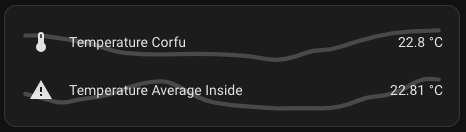
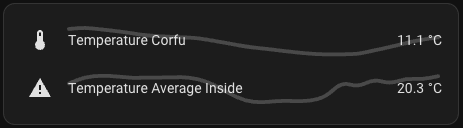
feat: update version to 0.0.3, enhance state display with unit conversion

diff --git a/background-graph-entities.js b/background-graph-entities.js
@@ -1,5 +1,5 @@
 console.log(
-  `%cbackground-graph-entities\n%cVersion: ${"0.0.2"}`,
+  `%cbackground-graph-entities\n%cVersion: ${"0.0.3"}`,
   "color: #fff; background-color: #191970; font-weight: bold;",
   ""
 );
@@ -44,7 +44,7 @@ class BackgroundGraphEntities extends HTMLElement {
   --ha-card-border-width: 0;
   position: absolute;
   top: 0;
-  left: 0;
+  left: 45px;
   right: 0;
   bottom: 0;
   pointer-events: none;
@@ -168,9 +168,16 @@ class BackgroundGraphEntities extends HTMLElement {
           `.entity-row[data-entity="${entity.entity}"] .entity-value`
         );
         if (entityValue) {
-          // Display state value along with unit of measurement
-          entityValue.textContent = `${stateObj.state} ${stateObj.attributes.unit_of_measurement || ""
-            }`;
+          const state = parseInt(stateObj.state, 10);
+          const unit = stateObj.attributes.unit_of_measurement || "";
+
+          if (unit.toLowerCase() === "min" && state > 60) {
+            const hours = Math.floor(state / 60);
+            const minutes = state % 60;
+            entityValue.textContent = `${hours}h ${minutes}min`;
+          } else {
+            entityValue.textContent = `${stateObj.state} ${unit}`;
+          }
         }
       }
     });

diff --git a/README.md b/README.md
@@ -35,7 +35,7 @@ entities:
   - entity: sensor.temperature_corfu
     name: Temperature Corfu
     icon: mdi:thermometer
-  - entity: sensor.temperaturesensor_average_inside
+  - entity: sensor.temperature_sensor_average_inside
     name: Temperature Average Inside
 ```
 
@@ -59,7 +59,7 @@ entities:
   - entity: sensor.temperature_corfu
     name: Temperature Corfu
     icon: mdi:thermometer
-  - entity: sensor.temperaturesensor_average_inside
+  - entity: sensor.temperature_sensor_average_inside
     name: Temperature Average Inside
     icon: mdi:home-thermometer
 hoursToShow: 24
@@ -79,8 +79,6 @@ To debug or make changes to this component:
 2. Edit the `background-graph-entities.js` file as needed.
 3. Reload the browser or use the `Refresh` button in Home Assistant to see your changes.
 
-## Conclusion
-
-The `background-graph-entities` custom component is a powerful tool for visualizing sensor data in Home Assistant. Its flexibility in configuration and ease of use make it a great addition to any Home Assistant setup.
+---
 
 For further assistance or to report issues, please visit the [GitHub repository](https://github.com/timmaurice/background-graph-entities).
